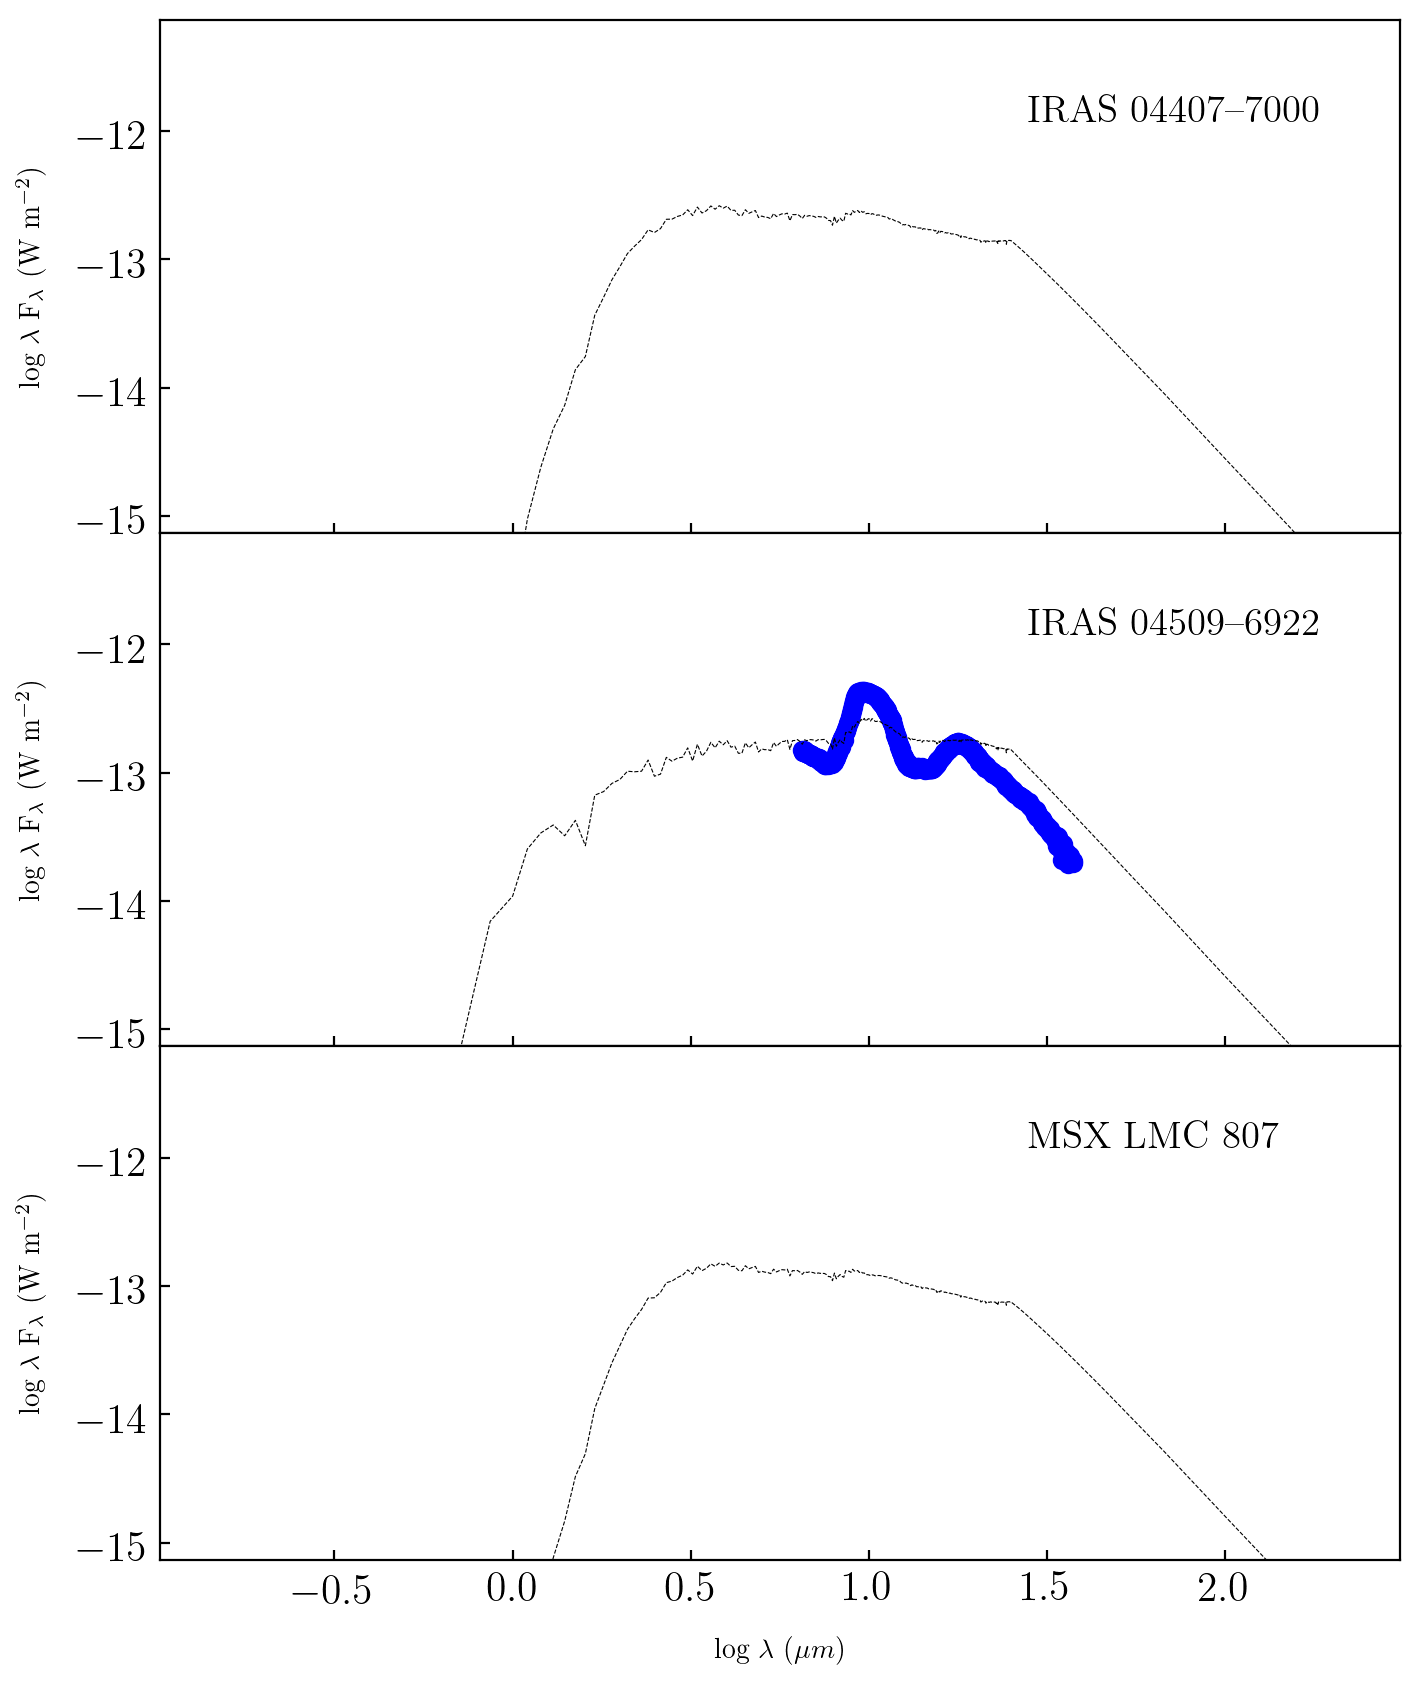
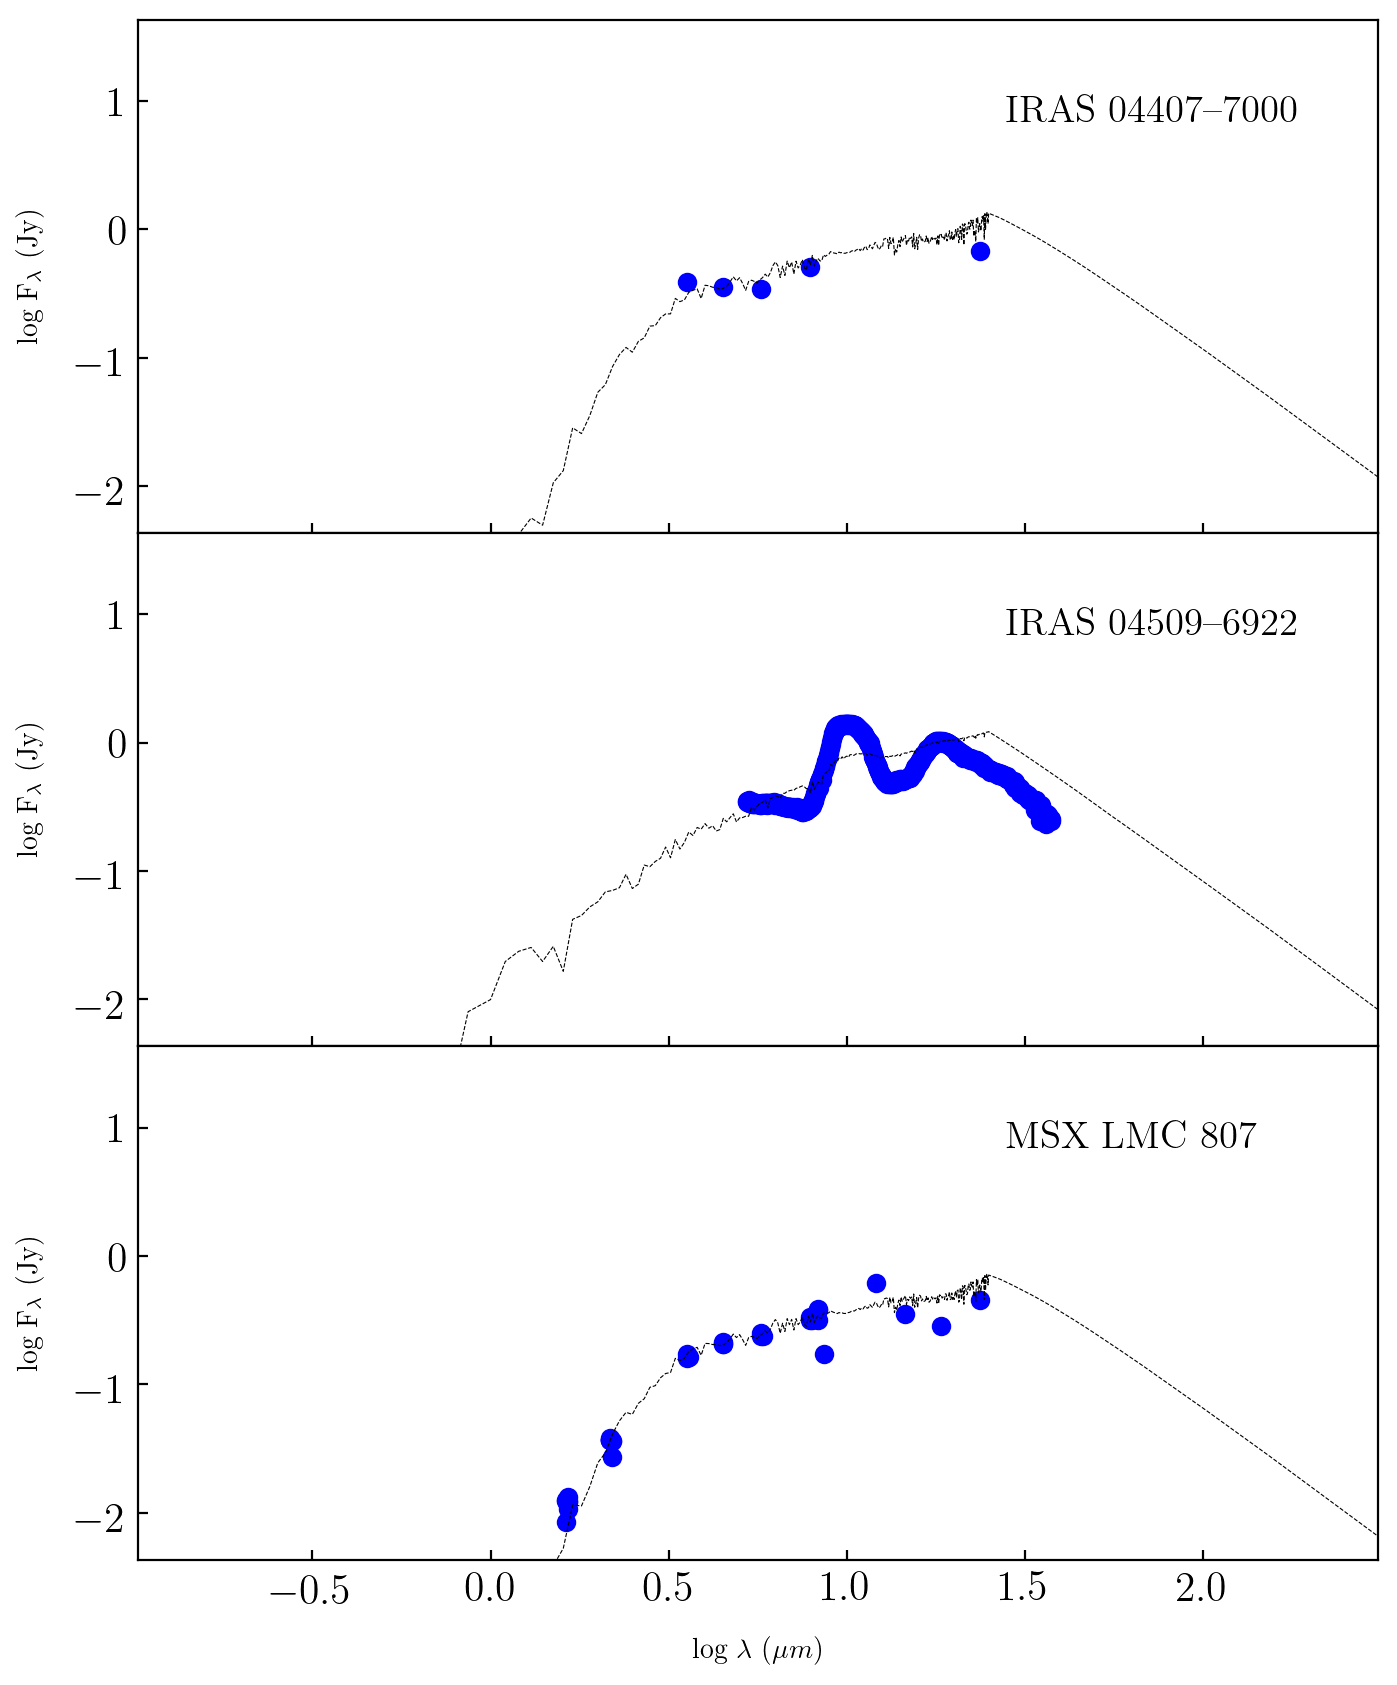
fixed init imports

diff --git a/desk/sed_fit.py b/desk/sed_fit.py
@@ -16,7 +16,7 @@ from functools import partial
 from scipy import interpolate
 from multiprocessing import Process
 from desk import config, remove_old_files, plotting_seds, get_padova
-from .plotting_seds import create_fig
+from desk.plotting_seds import create_fig
 from multiprocessing import Pool, cpu_count
 from astropy.table import Table, Column
 
@@ -35,6 +35,7 @@ squares value for each grid in the model and the data. The DUSTY outputs are the
 fitting_results.csv and fitting_plotting_output.csv (for plotting the results). An example plotting script has also
 been provided.
 '''
+
 
 def get_data(filename):
     """
@@ -110,7 +111,6 @@ def sed_fitting(target):
     model_index = argmin // stat_array.shape[1]
     trial_index = argmin % stat_array.shape[1]
 
-
     # appends data for plotting later
     follow_up_array.append(np.array(grid_outputs[model_index]))
     target_name = (target.split('/')[-1][:15]).replace('IRAS-', 'IRAS ')
@@ -118,13 +118,12 @@ def sed_fitting(target):
     follow_up_index.append(model_index)
     follow_up_normilazation.append(trials[trial_index])
 
-
-    if fnmatch(config.fitting['model_grid'],'grams*'):
+    if fnmatch(config.fitting['model_grid'], 'grams*'):
         print(Table(grid_outputs[model_index]))
         latex_array.append(grid_outputs[model_index])
 
-    else:    
-    # calculates luminosity and scales outputs
+    else:
+        # calculates luminosity and scales outputs
         luminosity = int(np.power(10.0, distance_norm - math.log10(trials[trial_index]) * -1))
         scaled_vexp = float(grid_outputs[model_index]['vexp']) * (luminosity / 10000) ** 0.25
         scaled_mdot = grid_outputs[model_index]['mdot'] * ((luminosity / 10000) ** 0.75) * (
@@ -148,9 +147,9 @@ def sed_fitting(target):
             print('-------------------------------------------------')
         return latex_array, follow_up_normilazation, follow_up_names, follow_up_index, follow_up_array
 
-
     # with Pool(processes=number_of_cores_to_use) as pool:
     #         pool.map(sed_fitting, targets)
+
 
 def main():
     # set variables
@@ -171,9 +170,7 @@ def main():
     follow_up_normilazation = []
     targets = []
     latex_array = []
-    target_names = []
     start = time.time()
-    number_of_cores_to_use = cpu_count() - 1
 
     # normalization calculation
     # solar constant = 1379 W
@@ -214,16 +211,16 @@ def main():
     else:
         raise ValueError("Model grid input error: mismatch in model spectra and model output")
 
-        #SED FITTING
+        # SED FITTING
     # pdb.set_trace()
     for counter, target_string in tqdm(enumerate(targets)):
         sed_fitting(target_string)
 
     # saves results csv file
-    if fnmatch(config.fitting['model_grid'],'grams*'):
+    if fnmatch(config.fitting['model_grid'], 'grams*'):
         print(Table(grid_outputs[model_index]))
 
-    else:   
+    else:
         file_a = Table(np.array(latex_array), names=(
             'source', 'L', 'vexp_predicted', 'teff', 'tinner', 'odep', 'mdot'), dtype=(
             'S16', 'int32', 'f8', 'int32', 'int32', 'f8', 'f8'))
@@ -245,7 +242,7 @@ def main():
         create_fig()  # runs plotting script
     else:
         print('No figure created. To automatically generate a figure or multiple figures change the ' +
-            '"figures_single_multiple_or_none" variable in the config.py script to "single" or "multiple".')
+              '"figures_single_multiple_or_none" variable in the config.py script to "single" or "multiple".')
 
     end = time.time()
     print()
@@ -254,31 +251,3 @@ def main():
 
 if __name__ == '__main__':
     main()
-
-
-
-
-
-
-
-
-
-
-
-
-
-
-
-
-
-
-
-
-
-
-
-
-
-
-
-

diff --git a/desk/plotting_seds.py b/desk/plotting_seds.py
@@ -46,7 +46,6 @@ def create_fig():
         """
         table = ascii.read(filename, delimiter=',')
         table.sort(table.colnames[0])
-        table = table[70:]
         x = np.array(table.columns[0])
         y = np.array(table.columns[1])
         if config.output['output_unit'] == 'Wm^-2':
@@ -97,8 +96,8 @@ def create_fig():
         # pdb.set_trace()
         # plotting
         if len(input_file) == 1:
-            ax1.set_xlim(0.3, 2.4)
-            ax1.set_ylim(-14.7, -10.51)
+            ax1.set_xlim(-0.99, 2.49)
+            ax1.set_ylim(-15.2, -11.51)
             ax1.plot(x_data, y_data, c='blue', label='data')
             ax1.plot(x_model, y_model, c='k', linewidth=0.5, linestyle='--', zorder=2, label='model')
             ax1.annotate(target_name.replace('-', r'\textendash'), (0.07, 0.85), xycoords='axes fraction', fontsize=14)
@@ -118,38 +117,15 @@ def create_fig():
             axs[counter].set_xlabel('log $\lambda$ ($\mu m$)', labelpad=10)
             axs[counter].set_ylabel(axislabel, labelpad=10)
 
+        # #plot ossenkopf model
+        # oss = Table.read('desk/python_scripts/ossenkopf_fit.csv', format='csv')
+        # ax1.plot(oss['wave'], oss['lamflam'], c='blue', linewidth=0.7, linestyle='--', zorder=2, label='ossenkopf')
+
+        # #plot crystalline model
+        # cry = Table.read('desk/python_scripts/crystalline_fit.csv', format='csv')
+        # # ax1.plot(cry['wave'], cry['lamflam'], c='green', linewidth=0.7, linestyle='--', zorder=20, label='cry')
+        # plt.legend()
+
         # pdb.set_trace()
     plt.subplots_adjust(wspace=0, hspace=0)
     fig.savefig('output_sed.png', dpi=200, bbox_inches='tight')
-
-
-
-
-
-
-
-
-
-
-
-
-
-
-
-
-
-
-
-
-
-
-
-
-
-
-
-
-
-
-
-

diff --git a/desk/config.py b/desk/config.py
@@ -18,8 +18,8 @@ target = dict(
 # Padova options: J400, J1000, H11, R12, R13
 
 fitting = dict(
-    model_grid='Zubko-Crich-aringer',
-    # model_grid='Oss-Orich-aringer',
+    # model_grid='Zubko-Crich-aringer',
+    model_grid='Oss-Orich-bb',
     wavelength_min=0.01,
     wavelength_max=25,
     min_norm=1e-14,
@@ -29,8 +29,8 @@ fitting = dict(
 output = dict(
     printed_output='True',
 
-    output_unit='Wm^-2',
-    # output_unit='Jy',
+    # output_unit='Wm^-2',
+    output_unit='Jy',
 
     figures_single_multiple_or_none='single'
 )

diff --git a/__init__.py b/__init__.py
@@ -5,9 +5,8 @@ are external to it, and hence are developed in a separate source tree. Note
 that this package is distinct from the /cextern directory of the source code
 distribution, as that directory only contains C extension code.
 """
-
-from desk import config
-from desk import get_padova
-from desk import plotting_seds
-from desk import remove_old_files
-from desk import sed_fit
+import desk.sed_fit
+import desk.plotting_seds
+import desk.config
+import desk.get_padova
+import desk.remove_old_files

diff --git a/setup.py b/setup.py
@@ -36,7 +36,8 @@ setup(
     description="The DESK is an SED-fitting python scripts for fitting data from evolved stars",
     entry_points={
         'console_scripts': [
-            'dusty_evolved_star_kit=dusty_evolved_star_kit.cli:main',
+            # 'dusty_evolved_star_kit=dusty_evolved_star_kit.cli:main',
+            'fit_sed=dusty_evolved_star_kit.desk.sed_fitting:main',
         ],
     },
     install_requires=requirements,
